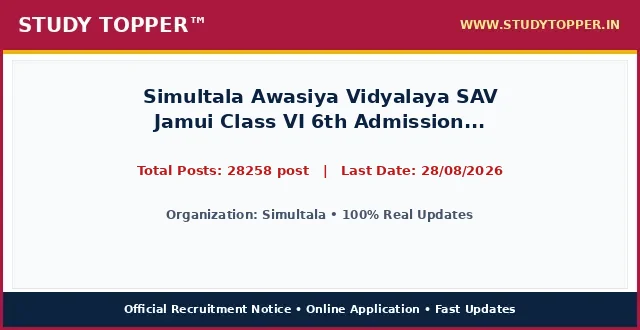
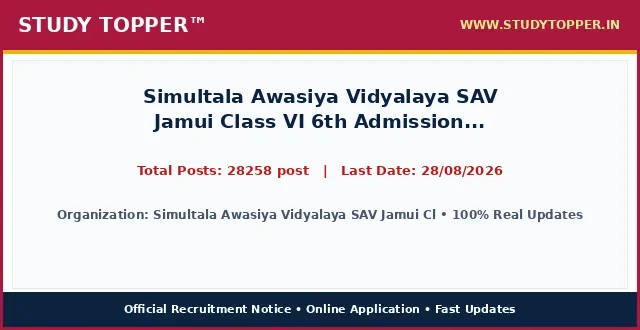
chore(lifecycle): daily auto-sort vacancies and update active dates

Changed region(s): [[0.0938, 0.6364, 0.9062, 0.6667]]

diff --git a/pages/sav-class-6th-admission-august26.html b/pages/sav-class-6th-admission-august26.html
@@ -987,12 +987,12 @@ ul.wp-block-latest-posts a:hover {
 <main class="site-main" id="main">
 <div class="gb-container gb-container-b39c368c">
 <h1 class="gb-headline gb-headline-e52a0102 gb-headline-text" style="font-size: 22px; font-weight: 700; color: #0000cd; text-align: left; margin: 8px 0 4px 0; line-height: 1.3; width: 100%; font-family: '-apple-system, BlinkMacSystemFont, 'Segoe UI', Roboto, 'Helvetica Neue', Arial, sans-serif', Times, serif, Hind, sans-serif;">Simultala Awasiya Vidyalaya SAV Jamui Class VI 6th Admission 2027 Apply Online</h1>
-<div class="gb-container gb-container-659bd175"><p style="color: #cd0808; font-weight: 700; font-size: 15px; margin: 2px 0 7px 0; text-align: left; font-family: '-apple-system, BlinkMacSystemFont, 'Segoe UI', Roboto, 'Helvetica Neue', Arial, sans-serif', Times, serif, Hind, sans-serif;">Post Date: August 22, 2026 12:38 PM</p></div>
-<p class="gb-headline gb-headline-550ae316 short_Details gb-headline-text" style="width: 100%; max-width: 100%; font-size: 16.8px; line-height: 1.55; color: #000000; text-align: justify; text-justify: inter-word; margin: 8px 0 14px 0; display: block; font-family: '-apple-system, BlinkMacSystemFont, 'Segoe UI', Roboto, 'Helvetica Neue', Arial, sans-serif', Times, serif, Hind, sans-serif;"><strong style="color: #0000cd;">Simultala</strong> has officially published the recruitment notice <strong style="color: #cd0808;">Simultala Awasiya Vidyalaya SAV Jamui Class VI 6th Admission 2027 Apply Online</strong> under notification number 2026. Online applications are invited for 28258 post across multiple departments and cadre positions. Interested candidates possessing the requisite educational qualifications and falling between 18 Years to 40 Years can complete their online registration before the application deadline of 28/08/2026. Applicants should read the eligibility criteria, category reservation rules, and exam scheme thoroughly before submitting applications.</p>
+<div class="gb-container gb-container-659bd175"><p style="color: #cd0808; font-weight: 700; font-size: 15px; margin: 2px 0 7px 0; text-align: left; font-family: '-apple-system, BlinkMacSystemFont, 'Segoe UI', Roboto, 'Helvetica Neue', Arial, sans-serif', Times, serif, Hind, sans-serif;">Post Date: August 22, 2026 12:48 PM</p></div>
+<p class="gb-headline gb-headline-550ae316 short_Details gb-headline-text" style="width: 100%; max-width: 100%; font-size: 16.8px; line-height: 1.55; color: #000000; text-align: justify; text-justify: inter-word; margin: 8px 0 14px 0; display: block; font-family: '-apple-system, BlinkMacSystemFont, 'Segoe UI', Roboto, 'Helvetica Neue', Arial, sans-serif', Times, serif, Hind, sans-serif;"><strong style="color: #0000cd;">Simultala Awasiya Vidyalaya SAV Jamui Class VI 6th Admission</strong> has officially published the recruitment notice <strong style="color: #cd0808;">Simultala Awasiya Vidyalaya SAV Jamui Class VI 6th Admission 2027 Apply Online</strong> under notification number Official Notification 2026. Online applications are invited for 28258 post across multiple departments and cadre positions. Interested candidates possessing the requisite educational qualifications and falling between 18 Years to 40 Years can complete their online registration before the application deadline of 28/08/2026. Applicants should read the eligibility criteria, category reservation rules, and exam scheme thoroughly before submitting applications.</p>
 <div class="gb-container gb-container-9849916c"><div class="social-buttons-compact" style="display: flex; justify-content: flex-start; align-items: center; gap: 10px; margin: 10px 0 16px 0; width: 100%;"><a class="social-btn-compact wa" href="https://whatsapp.com/channel/0029Va9xyz" rel="noopener" style="background-color: #00d084; color: #ffffff; padding: 10px 18px; border-radius: 4px; text-decoration: none; font-weight: bold; font-size: 15.5px; display: inline-flex; align-items: center; justify-content: center; height: auto;" target="_blank">WhatsApp</a><a class="social-btn-compact tg" href="https://t.me/studytopperofficial" rel="noopener" style="background-color: #0088cc; color: #ffffff; padding: 10px 18px; border-radius: 4px; text-decoration: none; font-weight: bold; font-size: 15.5px; display: inline-flex; align-items: center; justify-content: center; height: auto;" target="_blank">Telegram</a></div></div>
 <div class="gb-container gb-container-f58e6ca1" style="border: 2px solid #5b032f; border-radius: 4px; overflow: hidden; margin: 15px 0 20px 0; background-color: #ffffff; width: 100%; box-sizing: border-box;">
 <h2 class="gb-headline gb-headline-2ca5a791 gb-headline-text" style="font-size: 16px; font-weight: 700; text-align: center; color: #ef0303; line-height: 1.3; padding: 6px 4px; margin: 0; background: #ffffff; font-family: '-apple-system, BlinkMacSystemFont, 'Segoe UI', Roboto, 'Helvetica Neue', Arial, sans-serif', Times, serif, Hind, sans-serif;">Simultala Awasiya Vidyalaya SAV Jamui Class VI 6th Admission 2027 Apply Online &ndash; Latest Details &amp; Updates</h2>
-<h3 class="gb-headline gb-headline-7d5f86e8 gb-headline-text" style="font-size: 16px; font-weight: 600; text-align: center; color: #009703; line-height: 1.25; margin: 0; padding: 2px 4px 6px 4px; background: #ffffff; font-family: '-apple-system, BlinkMacSystemFont, 'Segoe UI', Roboto, 'Helvetica Neue', Arial, sans-serif', Times, serif, Hind, sans-serif;">Simultala : Details &amp; Summary</h3>
+<h3 class="gb-headline gb-headline-7d5f86e8 gb-headline-text" style="font-size: 16px; font-weight: 600; text-align: center; color: #009703; line-height: 1.25; margin: 0; padding: 2px 4px 6px 4px; background: #ffffff; font-family: '-apple-system, BlinkMacSystemFont, 'Segoe UI', Roboto, 'Helvetica Neue', Arial, sans-serif', Times, serif, Hind, sans-serif;">Simultala Awasiya Vidyalaya SAV Jamui Class VI 6th Admission : Details &amp; Summary</h3>
 <p class="gb-headline gb-headline-79adf169 gb-headline-text" style="margin: 0 0 6px 0; font-family: '-apple-system, BlinkMacSystemFont, 'Segoe UI', Roboto, 'Helvetica Neue', Arial, sans-serif', Times, serif, Hind, sans-serif; text-align: center; font-size: 18px; font-weight: 700;"><a href="/" style="color: #0000ff; text-decoration: underline;">StudyTopper.in</a></p>
 
 <style id="st-post-boxes-responsive-css">
@@ -1047,7 +1047,7 @@ ul.wp-block-latest-posts a:hover {
 <div class="st-grid-row" style="display: flex; flex-wrap: wrap; width: 100%; border-top: 2px solid #5b032f; margin: 0; padding: 0; box-sizing: border-box;">
   <!-- Left Col: Age Limits -->
   <div class="st-col-half st-col-border-right" style="box-sizing: border-box; vertical-align: top;">
-    <div style="background-color: #046132; color: #ffffff; padding: 8px 10px; font-size: 17px; font-weight: 700; text-align: center; font-family: '-apple-system, BlinkMacSystemFont, 'Segoe UI', Roboto, 'Helvetica Neue', Arial, sans-serif', Times, serif, Hind, sans-serif;">Simultala : Age Limits As On 01/04/2027</div>
+    <div style="background-color: #046132; color: #ffffff; padding: 8px 10px; font-size: 17px; font-weight: 700; text-align: center; font-family: '-apple-system, BlinkMacSystemFont, 'Segoe UI', Roboto, 'Helvetica Neue', Arial, sans-serif', Times, serif, Hind, sans-serif;">Simultala Awasiya Vidyalaya SAV Jamui Class VI 6th Admission : Age Limits As On 01/04/2027</div>
     <div style="padding: 12px 14px; background-color: #ffffff;">
       <ul style="padding-left: 20px; margin: 0; list-style-type: disc; text-align: left; font-size: 14pt; line-height: 1.6; font-family: '-apple-system, BlinkMacSystemFont, 'Segoe UI', Roboto, 'Helvetica Neue', Arial, sans-serif', Times, serif, Hind, sans-serif;">
         <li><span style="font-size: 14pt;">Minimum Age : <strong>10 Years</strong></span></li><li><span style="font-size: 14pt;">Maximum Age : <strong>12 Years.</strong></span></li>
@@ -1079,9 +1079,9 @@ ul.wp-block-latest-posts a:hover {
 <th style="background-color: #f53c00; color: #ffffff; padding: 6px 10px; text-align: center; border: 1px solid #d35400; font-size: 15px; font-weight: 700; font-family: '-apple-system, BlinkMacSystemFont, 'Segoe UI', Roboto, 'Helvetica Neue', Arial, sans-serif', Times, serif, Hind, sans-serif;">Eligibility Criteria</th>
 </tr>
 <tr>
-<td style="padding: 8px; border: 1px solid #ddd; font-weight: bold;">Simultala Simultala Awasiya Vidyalaya SAV Jamui Class VI 6th Admission 2027 Apply Online</td>
+<td style="padding: 8px; border: 1px solid #ddd; font-weight: bold;">Simultala Awasiya Vidyalaya SAV Jamui Class VI 6th Admission 2027 Apply Online</td>
 <td style="padding: 8px; border: 1px solid #ddd; text-align: center; font-weight: bold;">28258 post</td>
-<td style="padding: 8px; border: 1px solid #ddd;">Passed relevant Educational Qualification from Any Recognized Board / University in India. Read full official notification for post-wise details.</td>
+<td style="padding: 8px; border: 1px solid #ddd;">Passed prescribed Educational Qualification from Any Recognized Board / University in India. Read full official notification for post-wise eligibility criteria.</td>
 </tr>
 </tbody>
 </table>
@@ -1093,7 +1093,7 @@ ul.wp-block-latest-posts a:hover {
 <table style="border-collapse: collapse; width: 100%;">
 <tbody>
 <tr>
-<td style="width: 100%; text-align: center;"><span style="background-color: #000080; color: #ffffff; font-size: 14pt; font-weight: bold; display: block; padding: 6px;"> How to Fill Simultala Online Application Form </span></td>
+<td style="width: 100%; text-align: center;"><span style="background-color: #000080; color: #ffffff; font-size: 14pt; font-weight: bold; display: block; padding: 6px;"> How to Fill Simultala Awasiya Vidyalaya SAV Jamui Class VI 6th Admission Online Application Form </span></td>
 </tr>
 <tr>
 <td style="width: 100%;"><ol style="margin:0; padding-left:18px; text-align: left !important; list-style-position: outside !important"><li style="margin-bottom:6px; text-align: left !important;">SAV Class 6th Online Form 2026 are Released the Admission Notification Candidate Can Apply From</li><li style="margin-bottom:6px; text-align: left !important;">03/08/2026 to 28/08/2026</li><li style="margin-bottom:6px; text-align: left !important;">Kindly Check and Collect the All Document – Eligibility, ID Proof, Address Details, Basic Details.</li><li style="margin-bottom:6px; text-align: left !important;">Kindly Ready Scan Document Related to Recruitment Form – Photo, Sign, ID Proof, Etc.</li><li style="margin-bottom:6px; text-align: left !important;">Before Submit the Application Form Must Check the Preview and All Column Carefully.</li><li style="margin-bottom:6px; text-align: left !important;">If Candidate Required to Paying the Application Fee Must Submit. If You have Not the Required Application Fees Your Form is Not Completed.</li><li style="margin-bottom:6px; text-align: left !important;">Take A Print Out of Final Submitted Form.</li><li style="margin-bottom:6px; text-align: left !important;">Resize candidate photograph and signature accurately using the <a href="https://indtool.in" rel="noopener" target="_blank"><strong>StudyTopper Tools</strong></a> image resizer at indtool.in.</li></ol></td>
@@ -1104,7 +1104,7 @@ ul.wp-block-latest-posts a:hover {
 <table style="border-collapse: collapse; width: 100%;">
 <tbody>
 <tr>
-<td style="width: 100%; text-align: center;"><span style="background-color: #000080; color: #ffffff; font-size: 14pt;"><strong><span style="color: #ffffff;"> Simultala Recruitment 2026 : Mode Of Selection </span></strong></span></td>
+<td style="width: 100%; text-align: center;"><span style="background-color: #000080; color: #ffffff; font-size: 14pt;"><strong><span style="color: #ffffff;"> Simultala Awasiya Vidyalaya SAV Jamui Class VI 6th Admission Recruitment 2026 : Mode Of Selection </span></strong></span></td>
 </tr>
 <tr>
 <td style="width: 100%;">
